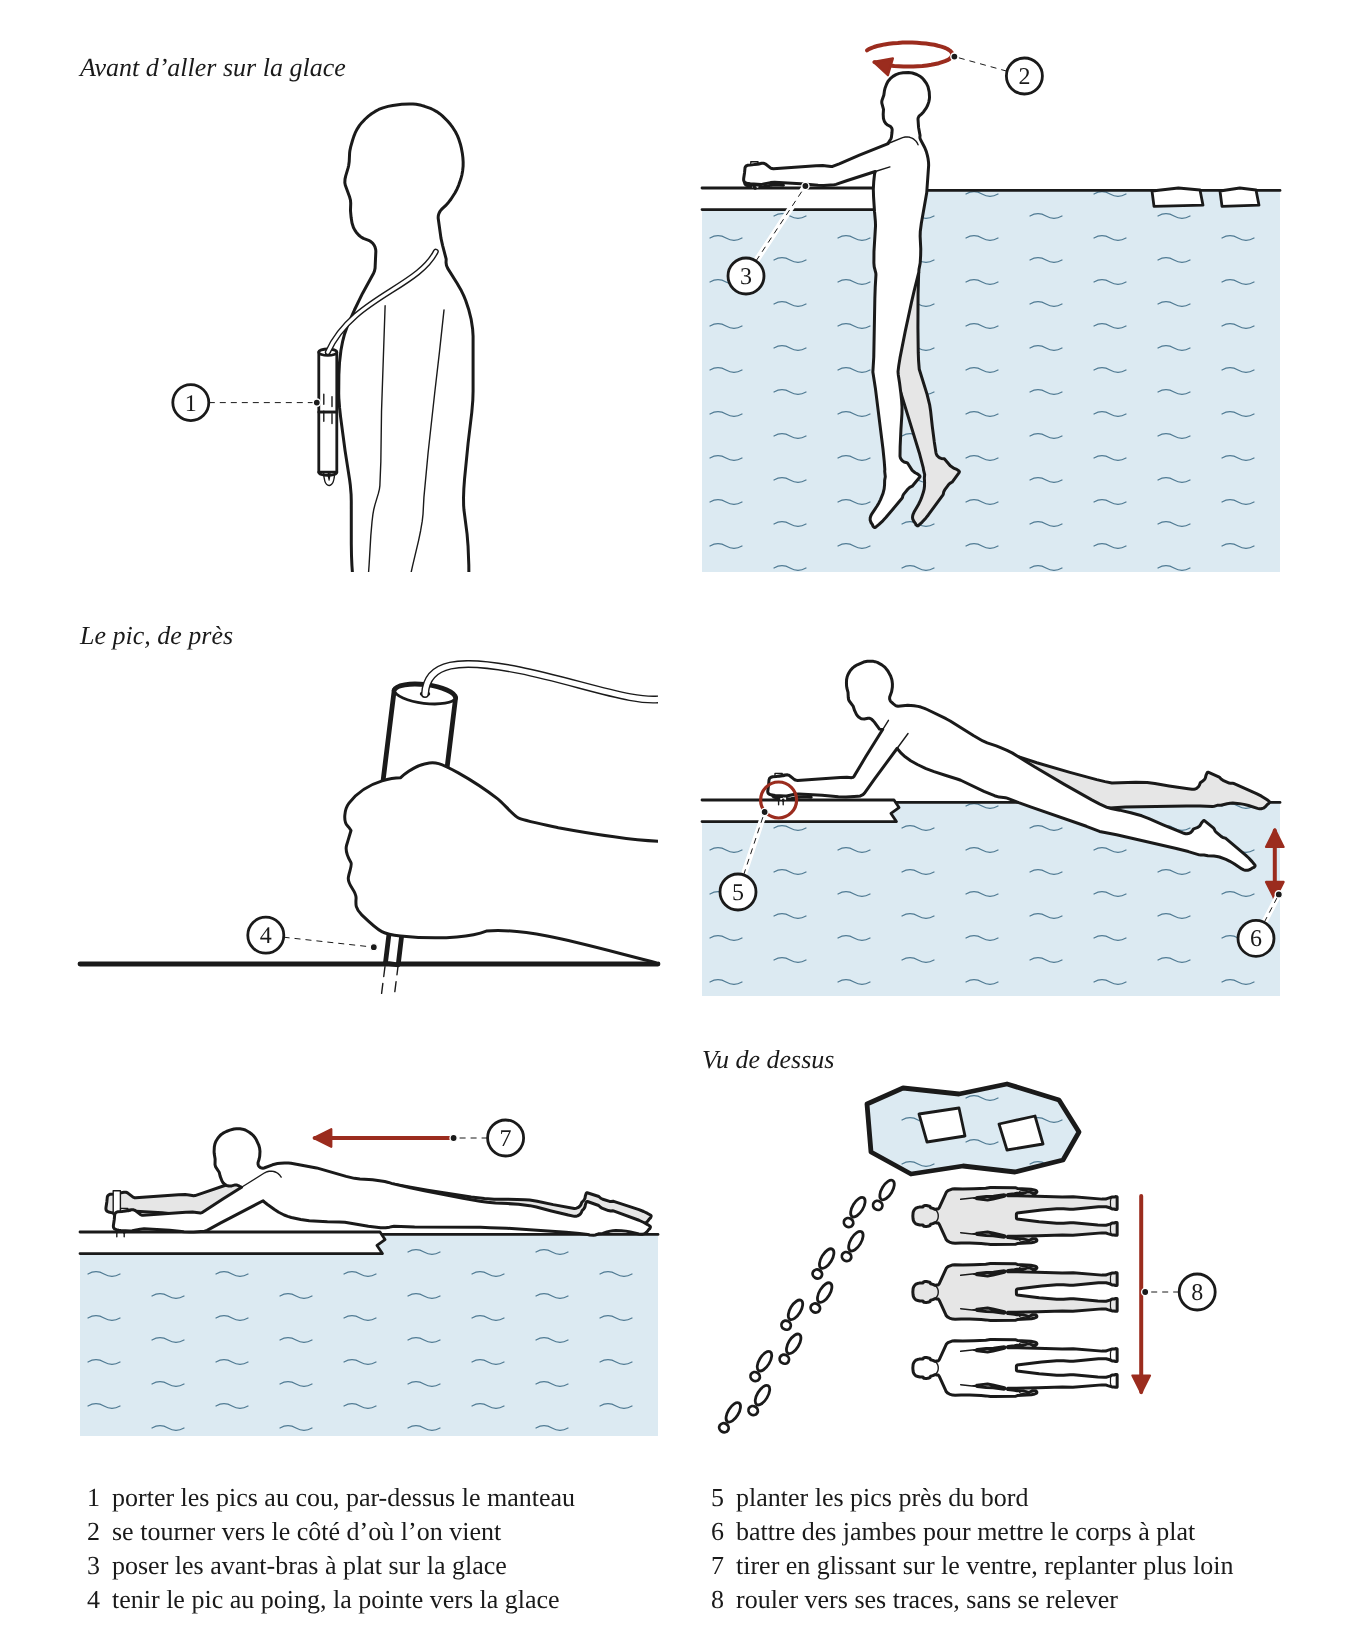
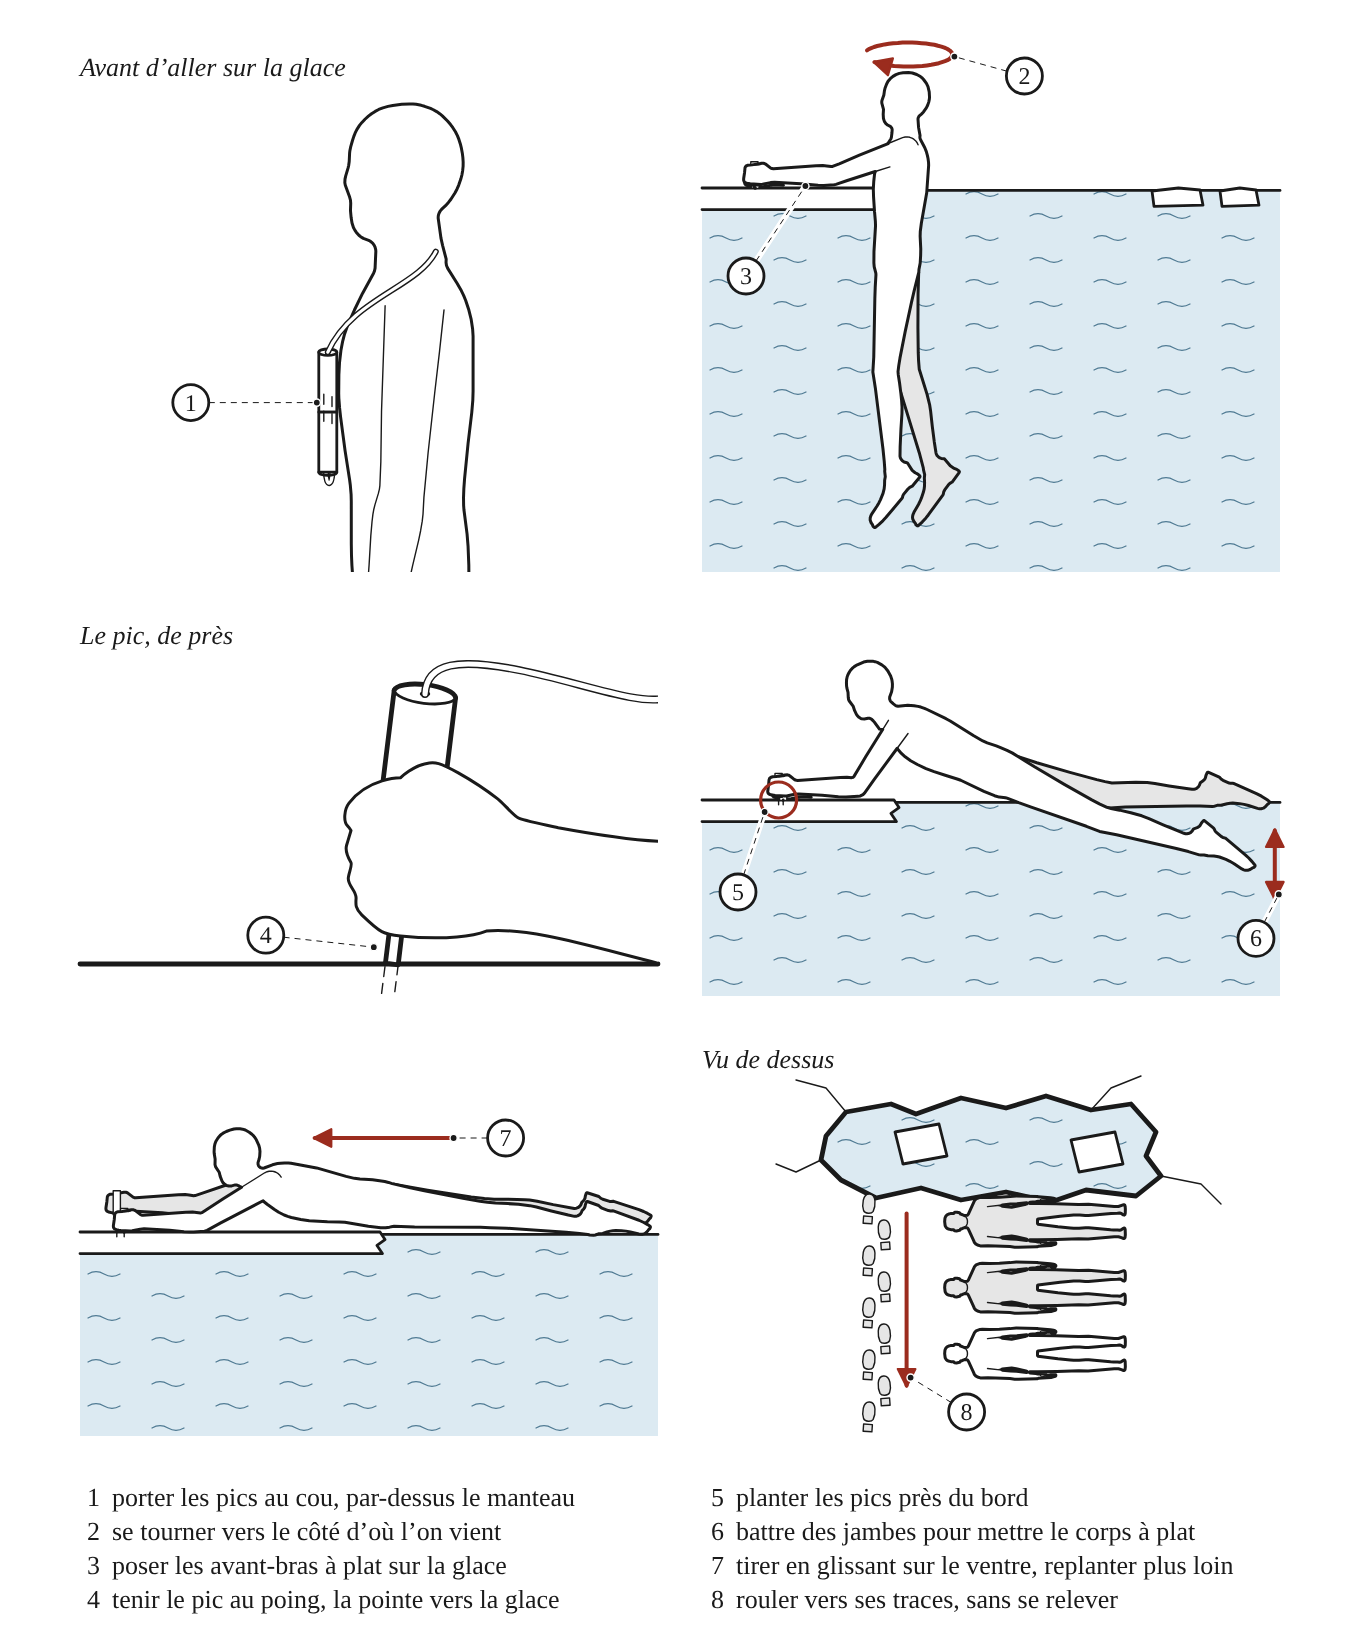
Ch. 15 : planche 15-04 (faire des pics à glace) ; 15-03 en reprise
Claude-Session: https://claude.ai/code/session_014xDY5FLxFXDJt3nYAYznSZ

Changed region(s): [[0.5868, 0.6483, 0.8956, 0.8644], [0.5559, 0.8027, 0.5868, 0.8335], [0.525, 0.8335, 0.5559, 0.8644]]

diff --git a/images/planches-src/15-01.js b/images/planches-src/15-01.js
@@ -97,39 +97,49 @@ module.exports = (h) => {
       h.geste(`M ${P(A.hancheP[0] + 30, yF)} L ${P(A.epauleP[0] + 22, yF)}`)].join('\n'), g, E, yG, yF };
   };
   // ── 8 : vu de dessus, sorti, rouler loin du trou vers ses traces, sans se relever ──
-  // Le trou en haut (l'eau, le bord cassé, deux morceaux qui flottent) ; les traces de bottes arrivent d'en bas à gauche
-  // jusqu'au trou (le côté d'où l'on vient) ; la personne couchée (le corps simple vu de dessus, pose couche-face, couché par la
-  // planche, la tête à gauche) en trois positions qui s'éloignent du trou vers les traces : les deux plus anciennes en
-  // gris, la dernière en blanc. Le corps roule de côté : il avance perpendiculairement à sa longueur.
-  const SD = 0.058;
+  // Le trou en haut, plus long que le corps (l'eau, le bord cassé, des fissures qui partent du bord, deux morceaux qui
+  // flottent) ; la personne couchée (le corps simple vu de dessus, pose couche-face, couché par la planche, la tête à
+  // gauche ; pieds 'nu' : à cette taille, la botte vue de dessus fait un crochet) en trois positions, la première
+  // collée au bord du trou, les deux plus anciennes en gris, la dernière en blanc. Le corps roule de côté : il avance
+  // en travers de sa longueur, vers le bas, le long des traces de bottes de l'aller qui montent jusqu'au bord du trou.
+  const SD = 0.052;
   const vDessus = z => {
-    const cx = z.l / 2 - 10, hy = 24;
-    const trou = [[-52, -14], [-34, -22], [-6, -19], [18, -24], [44, -16], [54, 0], [46, 14], [22, 20], [-4, 17], [-30, 21], [-50, 10]]
-      .map(([a, b]) => [cx + a, hy + b]);
-    const out = [h.chemin(trou, h.a.hachure('eau', 'contour'), true)];
-    out.push(h.chemin([[cx - 26, hy - 9], [cx - 6, hy - 12], [cx - 3, hy + 2], [cx - 22, hy + 5]], blanc(h.a.arete), true));
-    out.push(h.chemin([[cx + 14, hy - 4], [cx + 32, hy - 8], [cx + 36, hy + 6], [cx + 18, hy + 9]], blanc(h.a.arete), true));
-    // trois positions : le corps vu de dessus, couché par la planche (la tête à gauche), un peu à droite du trou
-    const g0 = F.corps({ pose: 'couche-face', vue: 'face', echelle: SD, x: 0, y: 0, visage: false });
+    const corpsD = o => F.corps(Object.assign({ pose: 'couche-face', vue: 'face', echelle: SD, visage: false, pieds: 'nu' }, o));
+    const g0 = corpsD({ x: 0, y: 0 });
     const b = g0.boite, bx = (b.x0 + b.x1) / 2, by = (b.y0 + b.y1) / 2, demiL = (b.y1 - b.y0) / 2, demiW = (b.x1 - b.x0) / 2;
-    const xc = cx + 22, ys = [hy + 42, hy + 80, hy + 118];
-    // les traces de bottes : de bas à gauche jusqu'au bord du trou, semelle et talon, la pointe vers le trou, en
-    // quinconce ; une trace qui tomberait sous un corps n'est pas dessinée
-    const A0 = [18, z.h - 8], A1 = [cx - 40, hy + 18], d = Math.hypot(A1[0] - A0[0], A1[1] - A0[1]);
-    const u = [(A1[0] - A0[0]) / d, (A1[1] - A0[1]) / d], ang = Math.atan2(u[1], u[0]) * 180 / Math.PI;
-    for (let t = 0, k = 0; t < d - 8; t += 15, k++) {
-      const q = k % 2 ? 4 : -4, x = A0[0] + u[0] * t - u[1] * q, y = A0[1] + u[1] * t + u[0] * q;
-      if (ys.some(yy => Math.abs(y - yy) < demiW + 6 && x > xc - demiL - 8)) continue;
-      out.push(`<g transform="rotate(${ang.toFixed(1)} ${P(x, y)})">${h.ellipse(x + 2, y, 5.5, 2.6, h.a.arete)}${h.ellipse(x - 7, y, 2.2, 2.4, h.a.arete)}</g>`);
-    }
+    const cx = z.l / 2 + 22, hy = 34;
+    // le trou : un peu plus long que le corps, le bord cassé en dents irrégulières
+    const T = [[-66, -8], [-58, -20], [-40, -24], [-30, -19], [-12, -27], [6, -22], [22, -28], [40, -21], [56, -24], [66, -10],
+      [62, 2], [68, 12], [58, 22], [38, 19], [24, 25], [6, 20], [-12, 24], [-28, 18], [-46, 23], [-60, 14], [-68, 4]]
+      .map(([a, c]) => [cx - 22 + a * 1.25, hy + c]);
+    const out = [];
+    // les fissures qui partent du bord dans la glace
+    for (const f of [[[-68, 4], [-78, 10], [-86, 6]], [[40, -21], [48, -32], [60, -38]], [[68, 12], [84, 16], [92, 26]],
+      [[-58, -20], [-66, -32], [-78, -36]]])
+      out.push(h.chemin(f.map(([a, c]) => [cx - 22 + a * 1.25, hy + c]), h.a.detail));
+    out.push(h.chemin(T, h.a.hachure('eau', 'contour'), true));
+    out.push(h.chemin([[cx - 70, hy - 10], [cx - 48, hy - 14], [cx - 44, hy + 2], [cx - 66, hy + 6]], blanc(h.a.arete), true));
+    out.push(h.chemin([[cx + 18, hy - 6], [cx + 40, hy - 10], [cx + 44, hy + 6], [cx + 22, hy + 10]], blanc(h.a.arete), true));
+    // trois positions : la première collée au bord du trou
+    const ys = [hy + 22 + demiW, hy + 22 + demiW + 33, hy + 22 + demiW + 66];
+    // les traces de bottes de l'aller : semelle ovale plus large devant, talon à part, gauche et droite en quinconce,
+    // dans l'axe de la roulade, du bas de la vue jusqu'au bord du trou, à gauche des têtes
+    const xT = cx - demiL - 34;
+    const botte = (x, y, gauche) => {
+      const d = gauche ? -1 : 1;
+      const semelle = `M ${P(x, y - 7)} C ${P(x + 3.6, y - 7)} ${P(x + 3.4, y - 1)} ${P(x + 2.4, y + 1.5)} C ${P(x + 1.6, y + 3)} ${P(x - 1.6, y + 3)} ${P(x - 2.4, y + 1.5)} C ${P(x - 3.4, y - 1)} ${P(x - 3.6, y - 7)} ${P(x, y - 7)} Z`;
+      return `<g transform="rotate(${d * 4} ${P(x, y)})">` + h.path(semelle, h.a.loin.replace('stroke="none"', `stroke="${NOIR}" stroke-width="0.7" stroke-linejoin="round"`))
+        + h.rect(x - 2.2, y + 4.2, 4.4, 3.6, h.a.loin.replace('stroke="none"', `stroke="${NOIR}" stroke-width="0.7" stroke-linejoin="round"`)) + '</g>';
+    };
+    for (let y = z.h - 10, k = 0; y > hy + 24; y -= 13, k++) out.push(botte(xT + (k % 2 ? 4 : -4), y, k % 2 === 1));
     for (const [k, y] of ys.entries()) {
-      const g = String(F.corps({ pose: 'couche-face', vue: 'face', echelle: SD, x: xc - bx, y: y - by, visage: false }));
-      const t = `<g transform="rotate(-90 ${P(xc, y)})">${g}</g>`;
+      const g = String(corpsD({ x: cx - bx, y: y - by }));
+      const t = `<g transform="rotate(-90 ${P(cx, y)})">${g}</g>`;
       out.push(k < 2 ? t.replace(/fill="#FFFFFF"/g, 'fill="#E6E6E6"') : t);
     }
-    // la flèche du geste : au bout des pieds, du trou vers le côté des traces
-    const xF = xc + demiL + 12;
-    out.push(h.geste(`M ${P(xF, ys[0] - 10)} L ${P(xF, ys[2] + 12)}`));
+    // la flèche du geste : le long des traces, du trou vers le bas
+    const xF = xT + 15;
+    out.push(h.geste(`M ${P(xF, ys[0] - 4)} L ${P(xF, ys[2] + 16)}`));
     return { svg: out.join('\n'), cx, hy, ys, xF };
   };
 
@@ -252,7 +262,7 @@ module.exports = (h) => {
         titre: 'Vu de dessus',
         dessin: z => vDessus(z).svg,
         renvois: z => { const v = vDessus(z); return [
-          { n: 8, rond: [v.xF + 28, (v.ys[0] + v.ys[2]) / 2], cible: [v.xF + 2, (v.ys[0] + v.ys[2]) / 2], texte: 'rouler vers ses traces, sans se relever' },
+          { n: 8, rond: [v.xF + 30, z.h - 12], cible: [v.xF + 2, v.ys[2] + 12], texte: 'rouler vers ses traces, sans se relever' },
         ]; },
       },
     },

diff --git a/images/planches-src/15-04.js b/images/planches-src/15-04.js
@@ -29,13 +29,23 @@ module.exports = (h) => {
   // LM manche, DM son diamètre, DC le clou, PC sa pointe dehors, IC sa partie dans le bois (le trou), DT et PT le
   // second trou, OFF son écart à l'axe, YT le trou du cordon depuis le haut, DT2 son diamètre
 
-  // un cordon : la bande de la bibliothèque de formes
+  // un cordon : la bande de la bibliothèque de formes ; corde : un trait noir et son âme blanche (comme 15-01)
+  const corde = (d, ep = 3.4) => `<path d="${d}" fill="none" stroke="${NOIR}" stroke-width="${ep}" stroke-linecap="round" stroke-linejoin="round"/>\n`
+    + `<path d="${d}" fill="none" stroke="#FFFFFF" stroke-width="${(ep - 1.4).toFixed(1)}" stroke-linecap="round" stroke-linejoin="round"/>`;
+  const lisse = pts => {
+    let d = `M ${P(...pts[0])}`;
+    for (let i = 0; i < pts.length - 1; i++) {
+      const p0 = pts[Math.max(0, i - 1)], p1 = pts[i], p2 = pts[i + 1], p3 = pts[Math.min(pts.length - 1, i + 2)];
+      d += ` C ${P(p1[0] + (p2[0] - p0[0]) / 6, p1[1] + (p2[1] - p0[1]) / 6)} ${P(p2[0] - (p3[0] - p1[0]) / 6, p2[1] - (p3[1] - p1[1]) / 6)} ${P(...p2)}`;
+    }
+    return d;
+  };
   const cordon = (pts, o = {}) => F.cordes([Object.assign({ ep: 3.4, pts, debut: 'coupe', fin: 'coupe' }, o)], { trait: 'arete' });
 
   // ── vue 1 : un pic en coupe dans l'axe, couché, la pointe à droite ──
   const k1 = 2.1;
   const vCoupe = z => {
-    const xL = 128, yc = 40;                    // le bout du cordon, l'axe
+    const xL = 196, yc = 40;                    // le bout du cordon, l'axe
     const r = DM / 2 * k1, xR = xL + LM * k1;             // le rayon, le bout du clou
     const rc = DC / 2 * k1, xFond = xR - IC * k1, xPointe = xR + PC * k1, xCone = xR + PC * k1 * 0.5;
     const yt = yc - OFF * k1, rt = DT / 2 * k1, xt = xR - PT * k1;
@@ -56,9 +66,9 @@ module.exports = (h) => {
     // le cordon : il descend dans le trou en travers, le traverse, et un nœud d'arrêt le retient dessous ; il remonte
     // vers le cou
     o.push(cordon([[xtr - 96, 6], [xtr - 40, 4], [xtr - 6, yc - r - 6], [xtr, yc - r + 4], [xtr, yc + r + 4]], { fin: 'ouvert' }));
-    o.push(h.ellipse(xtr, yc + r + 8, 6.4, 5.6, blanc(h.a.arete)));
-    o.push(h.path(`M ${P(xtr - 4, yc + r + 5)} Q ${P(xtr + 1, yc + r + 9)} ${P(xtr + 4, yc + r + 12)}`, h.a.detail));
-    o.push(cordon([[xtr + 3, yc + r + 13], [xtr + 7, yc + r + 19], [xtr + 14, yc + r + 21]], { debut: 'ouvert', fin: 'libre' }));
+    o.push(h.ellipse(xtr, yc + r + 8, 7.4, 6.4, blanc(h.a.arete)));
+    o.push(h.path(`M ${P(xtr - 5, yc + r + 4)} Q ${P(xtr + 1, yc + r + 8)} ${P(xtr + 5, yc + r + 13)} M ${P(xtr - 6, yc + r + 9)} Q ${P(xtr - 1, yc + r + 7)} ${P(xtr + 3, yc + r + 3)}`, h.a.detail));
+    o.push(cordon([[xtr + 5, yc + r + 13], [xtr + 9, yc + r + 19], [xtr + 17, yc + r + 22]], { debut: 'ouvert', fin: 'libre' }));
     // la cote de longueur, sous le manche
     const yq = yc + r + 26;
     o.push(h.ligne(xL, yc + r + 3, xL, yq + 6, h.a.fin), h.ligne(xR, yc + r + 3, xR, yq + 6, h.a.fin));
@@ -67,7 +77,7 @@ module.exports = (h) => {
   };
 
   // ── vue 2 : les deux pics emboîtés, chaque pointe dans le second trou de l'autre ; le cordon fait le tour du cou ──
-  const k2 = 1.0;
+  const k2 = 1.2;
   const vPaire = z => {
     const r = DM / 2 * k2, L = LM * k2, d = OFF * k2;
     const xJ = z.l / 2, ya = z.h - 14 - r - d, yb = ya + d;   // le joint ; l'axe du pic de gauche, celui de droite
@@ -81,7 +91,7 @@ module.exports = (h) => {
     const xtrA = x0 + YT * k2, xtrB = x1 - YT * k2;
     // le cordon, derrière les manches : de chaque trou en travers, il monte et fait le tour du cou
     const top = 8;
-    o.push(cordon([[xtrA, ya], [xtrA - 2, ya - r - 6], [x0 - 4, ya - r - 30], [x0 + 30, top + 16], [xJ, top], [x1 - 30, top + 16], [x1 + 4, yb - r - 30], [xtrB + 2, yb - r - 6], [xtrB, yb]]));
+    o.push(corde(lisse([[xtrA, ya], [xtrA - 4, ya - r - 8], [x0 + 6, top + 16], [x0 + 60, top + 1], [xJ, top], [x1 - 60, top + 1], [x1 - 6, top + 16], [xtrB + 4, yb - r - 8], [xtrB, yb]])));
     o.push(manche(x0, xJ, ya), manche(xJ, x1, yb));
     o.push(h.ligne(xJ, ya - r, xJ, yb + r, h.a.arete));
     // les clous, cachés : le clou de gauche dans le second trou de droite, et l'inverse
@@ -92,11 +102,11 @@ module.exports = (h) => {
 
   // ── vue 3 : autre façon, le clou planté pointe première, la tête limée en pointe (le bout du manche seul) ──
   const vAutre = z => {
-    const yc = z.h / 2 + 2, r = DM / 2 * k1, xR = z.l - 80, xL = xR - 44 * k1;
+    const yc = z.h / 2 + 2, r = DM / 2 * k1, xR = z.l - 80, xL = xR - 62 * k1;
     const rc = DC / 2 * k1, xFond = xR - IC * k1 * 0.75, rh = 5.5 * k1;
     const xCol = xR + 5, xPointe = xR + PC * k1;
     const o = [];
-    o.push(h.ligne(-11, 0, -11, z.h, h.a.fin));            // le filet qui sépare l'autre façon
+    o.push(h.ligne(1, 0, 1, z.h, h.a.fin));            // le filet qui sépare l'autre façon
     // le manche, coupé à gauche par une ligne de rupture
     const rupt = [[xL, yc - r], [xL + 5, yc - r * 0.35], [xL - 5, yc + r * 0.35], [xL, yc + r]];
     const contour = [[xR, yc - r], ...rupt, [xR, yc + r]];
@@ -117,14 +127,14 @@ module.exports = (h) => {
     format: 'demi',
     disposition: [['coupe'], ['paire', 'autre']],
     largeurs: [[1], [1.25, 1]],
-    hauteurs: [1.45, 1],
+    hauteurs: [1.25, 1.1],
     vues: {
       coupe: {
         titre: 'Un pic, en coupe',
         dessin: z => vCoupe(z).svg,
         renvois: z => { const v = vCoupe(z); return [
           { n: 1, rond: [v.xL - 30, v.yc + 20], cible: [v.xL - 1, v.yc + 16], texte: 'couper deux bouts de manche à balai de 10 cm' },
-          { n: 2, rond: [v.xFond - 40, v.yc + v.r + 16], cible: [v.xFond + 2, v.yc + 3], texte: 'enfoncer le clou sans sa tête, côté coupé au fond' },
+          { n: 2, rond: [v.xFond - 26, 10], cible: [v.xFond + 2, v.yc - 3], texte: 'enfoncer le clou sans sa tête, côté coupé au fond' },
           { n: 3, rond: [v.xR + 26, 10], cible: [v.xR - 12, v.yt], texte: 'percer à côté un second trou, moins profond' },
           { n: 4, rond: [v.xtr - 46, v.yc + v.r + 14], cible: [v.xtr - 7, v.yc + v.r + 8], texte: 'percer l’autre bout en travers, y nouer le cordon' },
         ]; },

diff --git a/images/planches-src/15-03-reperes.md b/images/planches-src/15-03-reperes.md
@@ -1,0 +1,24 @@
+# Planche 15-03. Sortir quelqu'un d'autre de l'eau : les repères
+
+Demi-page. En haut à gauche, la scène en coupe de profil (le sauveteur couché à gauche, coupé par le bord de la vue,
+sur la glace qui a porté ; la personne à droite, à plat ventre sur le bord du trou, les jambes dans l'eau) ; en haut à
+droite, de près, le bidon au bout de la corde ; en bas, l'autre façon (chapitre 15, étapes 8 et 9).
+
+1. **rester sur la glace qui a porté, lancer la corde** : le sauveteur est couché à plat ventre, loin du trou, sur la
+   glace qui l'a porté ; la corde part de ses mains.
+2. **nouer un bidon vide et bouché au bout** (de près) : un bidon fermé de son bouchon vissé pend au bout de la corde,
+   noué à sa poignée ; la main tient la corde au-dessus, avant de la lancer.
+3. **lui nouer la corde sous les bras** : la corde fait le tour du torse de la personne juste sous les aisselles, le
+   nœud sur le dos.
+4. **tirer pendant qu'il bat des jambes** (flèche rouge) : le sauveteur tire la corde vers lui ; la personne reste à
+   plat ventre sur le bord et bat des jambes (les deux petites flèches noires près des pieds).
+
+## Autre façon, si rien ne l'atteint
+
+5. **au lieu de 1 : pousser le toboggan, couché, attaché** (flèche rouge) : le sauveteur avance couché en poussant le
+   toboggan devant lui, la tête cintrée vers le trou ; une corde nouée à sa taille va à un autre adulte, couché lui
+   aussi sur la glace qui a porté, qui la tient.
+
+Mains : `mainStock` « poing-barre » (1-01), sans son objet, dans le gros plan ; la corde posée sur son axe. Corps :
+`h.formes.corps` de profil ; visage sur le sauveteur et la personne dans l'eau (ils se parlent), pas sur l'adulte qui
+tient la corde en arrière.

diff --git a/images/planches-src/15-04-reperes.md b/images/planches-src/15-04-reperes.md
@@ -1,0 +1,22 @@
+# Planche 15-04. Faire des pics à glace : les repères
+
+Demi-page, objets seuls, sans main. En haut, un pic en coupe dans l'axe, couché, la pointe à droite ; en bas à gauche,
+les deux pics emboîtés ; en bas à droite, après un filet, l'autre façon (chapitre 15, section 8).
+
+1. **couper deux bouts de manche à balai de 10 cm** : le manche en coupe, hachuré, la cote de 10 cm (4 po) dessous.
+2. **enfoncer le clou sans sa tête, côté coupé au fond** : le trou percé dans l'axe, profond ; le clou (en noir) a son
+   bout coupé, carré, au fond du trou, et sa pointe d'usine dehors.
+3. **percer à côté un second trou, moins profond** : le trou parallèle au clou, plus court, vide ; il recevra la pointe
+   de l'autre pic.
+4. **percer l'autre bout en travers, y nouer le cordon** : le cordon traverse le trou en travers et un nœud d'arrêt,
+   plus gros que le trou, le retient.
+5. **porter le cordon au cou, par-dessus le manteau** : les deux pics bout à bout, chaque clou (en tireté) dans le
+   second trou de l'autre, les pointes couvertes ; le cordon va d'un bout à l'autre et fait la boucle du cou.
+
+## Autre façon
+
+6. **au lieu de 2 : clou pointe première, tête limée en pointe** : le clou planté pointe première dans le bois ; sa
+   tête, dehors, limée en cône.
+
+Cotes : seule la longueur du manche (10 cm, 4 po) est cotée ; le diamètre du manche, la longueur du clou et de sa
+pointe ne sont pas dans le texte ni dans les sources : dessinés à vue, sans cote.
